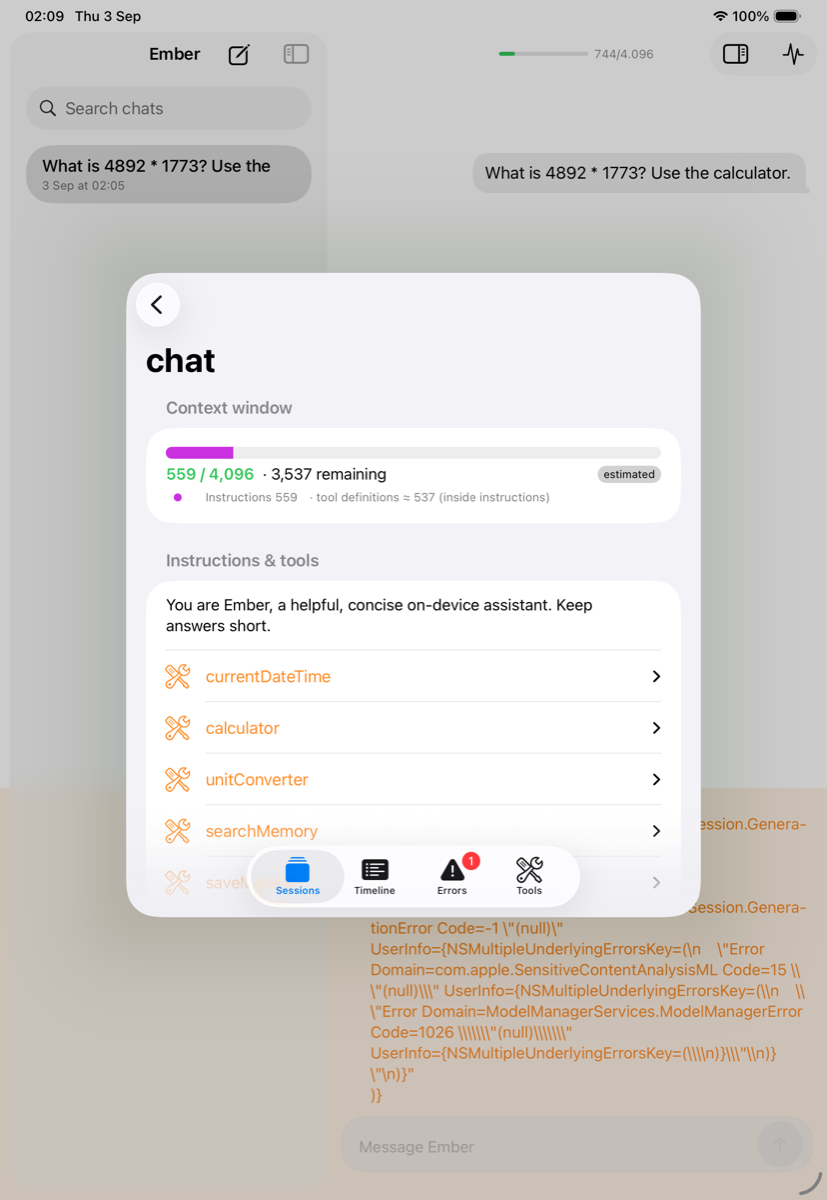
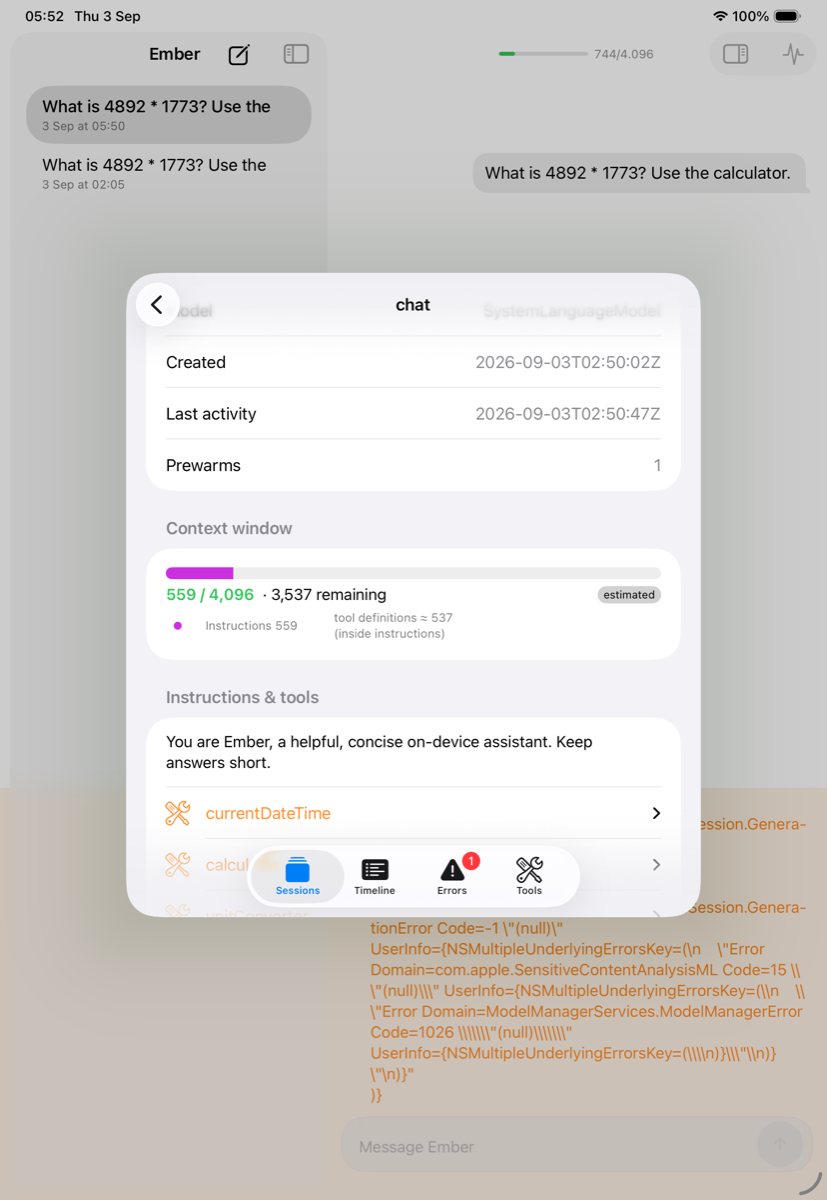
docs: re-capture EmberScope screenshots after the fix wave
Same iPad Pro simulator run (model-assets failure path): the failed-request
row now shows its failure glyph, the error chain is root-first, the session
header and accessibility values are the fixed ones. Alt texts updated.

diff --git a/docs/superpowers/plans/2026-09-02-emberscope-foundation-models-inspector.md b/docs/superpowers/plans/2026-09-02-emberscope-foundation-models-inspector.md
@@ -6116,7 +6116,7 @@ Co-Authored-By: Claude Fable 5.1 <noreply@anthropic.com>"
 | `Ember` macOS Release build | BUILD SUCCEEDED (every **app-side** EmberScope surface compiled out; the framework remains linked and inert) |
 | `Ember` iOS Simulator (iPhone 17 Pro) build | BUILD SUCCEEDED |
 
-**Simulator run (iPad Pro 11-inch (M5), iOS 26.5 simulator, Debug build):** the app launches; the Ember Scope toolbar button opens the sheet; the model card reports the model available with a 4,096-token context; a real turn ("What is 4892 * 1773? Use the calculator.") was sent. The simulator has no model assets, so generation failed with `GenerationError(-1) › com.apple.SensitiveContentAnalysisML(15) › ModelManagerServices.ModelManagerError(1026)`. Ember's own banner shows the raw error; EmberScope recorded the session, the prewarm, the retrieval note, the stream start with the prompt, the classified error ("Model assets unavailable", full underlying chain, linked request) and the failed request (703 ms), plus a context snapshot (559 / 4,096 estimated; tool definitions ≈ 537 inside the instructions; five tools listed). Screenshots: `docs/screenshots/emberscope-{sessions,session-detail,error-detail,timeline}.png`.
+**Simulator run (iPad Pro 11-inch (M5), iOS 26.5 simulator, Debug build):** the app launches; the Ember Scope toolbar button opens the sheet; the model card reports the model available with a 4,096-token context; a real turn ("What is 4892 * 1773? Use the calculator.") was sent. The simulator has no model assets, so generation failed with `GenerationError(-1) › com.apple.SensitiveContentAnalysisML(15) › ModelManagerServices.ModelManagerError(1026)`. Ember's own banner shows the raw error; EmberScope recorded the session, the prewarm, the retrieval note, the stream start with the prompt, the classified error ("Model assets unavailable", full underlying chain, linked request) and the failed request (703 ms), plus a context snapshot (559 / 4,096 estimated; tool definitions ≈ 537 inside the instructions; five tools listed). Screenshots: `docs/screenshots/emberscope-{sessions,session-detail,error-detail,timeline}.png`, re-captured after the fix wave on the same simulator (same failure path, 157 ms; the failed-request row now carries its failure glyph, the error chain is shown root-first, and the session header/accessibility values are the fixed ones).
 
 **Not exercised end to end in this session (unit-tested with mocks only):** successful generation, streaming token telemetry (chunk counts, time to first token), live tool-call timing, exact token counts (`tokenCount(for:)` throws without Apple Intelligence), and the hidden `title` / `extract` sessions (they only run after a completed exchange). Apple Intelligence is not enabled on the development Mac. That leaves one **assumption unverified on hardware**: `TranscriptSnapshot.applying(_:)` and `TokenCounting.count(entry:)` assume the SDK's per-entry count for the INSTRUCTIONS entry already includes that entry's `toolDefinitions`, exactly as the estimate does. If it does not, an exact total would under-report by the tool-definition cost. No defensive arithmetic was added — it would relabel a guess as an exact count — and both call sites carry the assumption in a comment.
 

diff --git a/Targets/EmberScope/README.md b/Targets/EmberScope/README.md
@@ -15,11 +15,11 @@ its options, timing and output, every tool call with arguments and results, and 
 
 | Sessions | Session detail |
 |---|---|
-| [![EmberScope's Sessions tab: a model status card reading available, 4,096-token context size, exact token counts supported, 23 languages, and one session row labelled chat with request, tool and error counts](../../docs/screenshots/emberscope-sessions.png)](../../docs/screenshots/emberscope-sessions.png) | [![EmberScope's session detail: a context-window bar showing 559 of 4,096 tokens used with an estimated badge, tool definitions counted inside the instructions entry, the instructions text, and the five registered tools](../../docs/screenshots/emberscope-session-detail.png)](../../docs/screenshots/emberscope-session-detail.png) |
+| [![EmberScope's Sessions tab: a model status card reading available, 4,096-token context size, exact token counts supported, 23 languages, and one session row labelled chat with its request and error counts and a compact context-window bar](../../docs/screenshots/emberscope-sessions.png)](../../docs/screenshots/emberscope-sessions.png) | [![EmberScope's session detail: the session header (model, created, last activity, prewarms), a context-window bar showing 559 of 4,096 tokens used with an estimated badge and tool definitions counted inside the instructions entry, the instructions text and the start of the registered tools list](../../docs/screenshots/emberscope-session-detail.png)](../../docs/screenshots/emberscope-session-detail.png) |
 
 | Timeline | Error detail |
 |---|---|
-| [![EmberScope's Timeline tab, filterable and searchable, listing a context snapshot, a failed request at 703 ms, a classified error, a stream start with its prompt, a retrieval note and a prewarm](../../docs/screenshots/emberscope-timeline.png)](../../docs/screenshots/emberscope-timeline.png) | [![EmberScope's error detail classifying a raw GenerationError as Model assets unavailable, with the full debug description and the underlying chain GenerationError to SensitiveContentAnalysisML to ModelManagerError 1026](../../docs/screenshots/emberscope-error-detail.png)](../../docs/screenshots/emberscope-error-detail.png) |
+| [![EmberScope's Timeline tab, filterable and searchable, listing a context snapshot, a failed request at 157 ms, a classified error, a stream start with its prompt, a retrieval note and a prewarm](../../docs/screenshots/emberscope-timeline.png)](../../docs/screenshots/emberscope-timeline.png) | [![EmberScope's error detail classifying a raw GenerationError as Model assets unavailable, with the full debug description and the root-first error chain: GenerationError, a nested GenerationError, SensitiveContentAnalysisML 15 and ModelManagerError 1026](../../docs/screenshots/emberscope-error-detail.png)](../../docs/screenshots/emberscope-error-detail.png) |
 
 *Captured on an iPad Pro simulator, which reports the model as available but has no on-device model assets —
 which is why the run above ends in a classified `assetsUnavailable` error instead of a reply.*

diff --git a/README.md b/README.md
@@ -108,7 +108,7 @@ Ember ships with [EmberScope](Targets/EmberScope/README.md), a drop-in debug ins
 
 | Context window per session | Ordered event timeline |
 |---|---|
-| ![EmberScope's session detail showing 559 of 4,096 context tokens used with an estimated badge, tool definitions counted inside the instructions entry, and Ember's five registered tools](docs/screenshots/emberscope-session-detail.png) | ![EmberScope's timeline listing a context snapshot, a failed request at 703 ms, a classified model-assets-unavailable error, a stream start, a retrieval note, and a prewarm](docs/screenshots/emberscope-timeline.png) |
+| ![EmberScope's session detail showing the session header, 559 of 4,096 context tokens used with an estimated badge, tool definitions counted inside the instructions entry, and the start of Ember's registered tools list](docs/screenshots/emberscope-session-detail.png) | ![EmberScope's timeline listing a context snapshot, a failed request at 157 ms, a classified model-assets-unavailable error, a stream start, a retrieval note, and a prewarm](docs/screenshots/emberscope-timeline.png) |
 
 *The two totals differ because they count different text at different moments: Ember's gauge adds one budget line per tool from `Toolbox.accountingMetadata`'s digest (`name + description + String(describing:)` of the `GenerationSchema`) alongside the transcript entries and the reply it is about to send, while EmberScope folds the tool definitions into the instructions entry — where the model actually receives them — using the schema encoded as JSON, and counts only what the SDK's transcript holds right now.*
 
